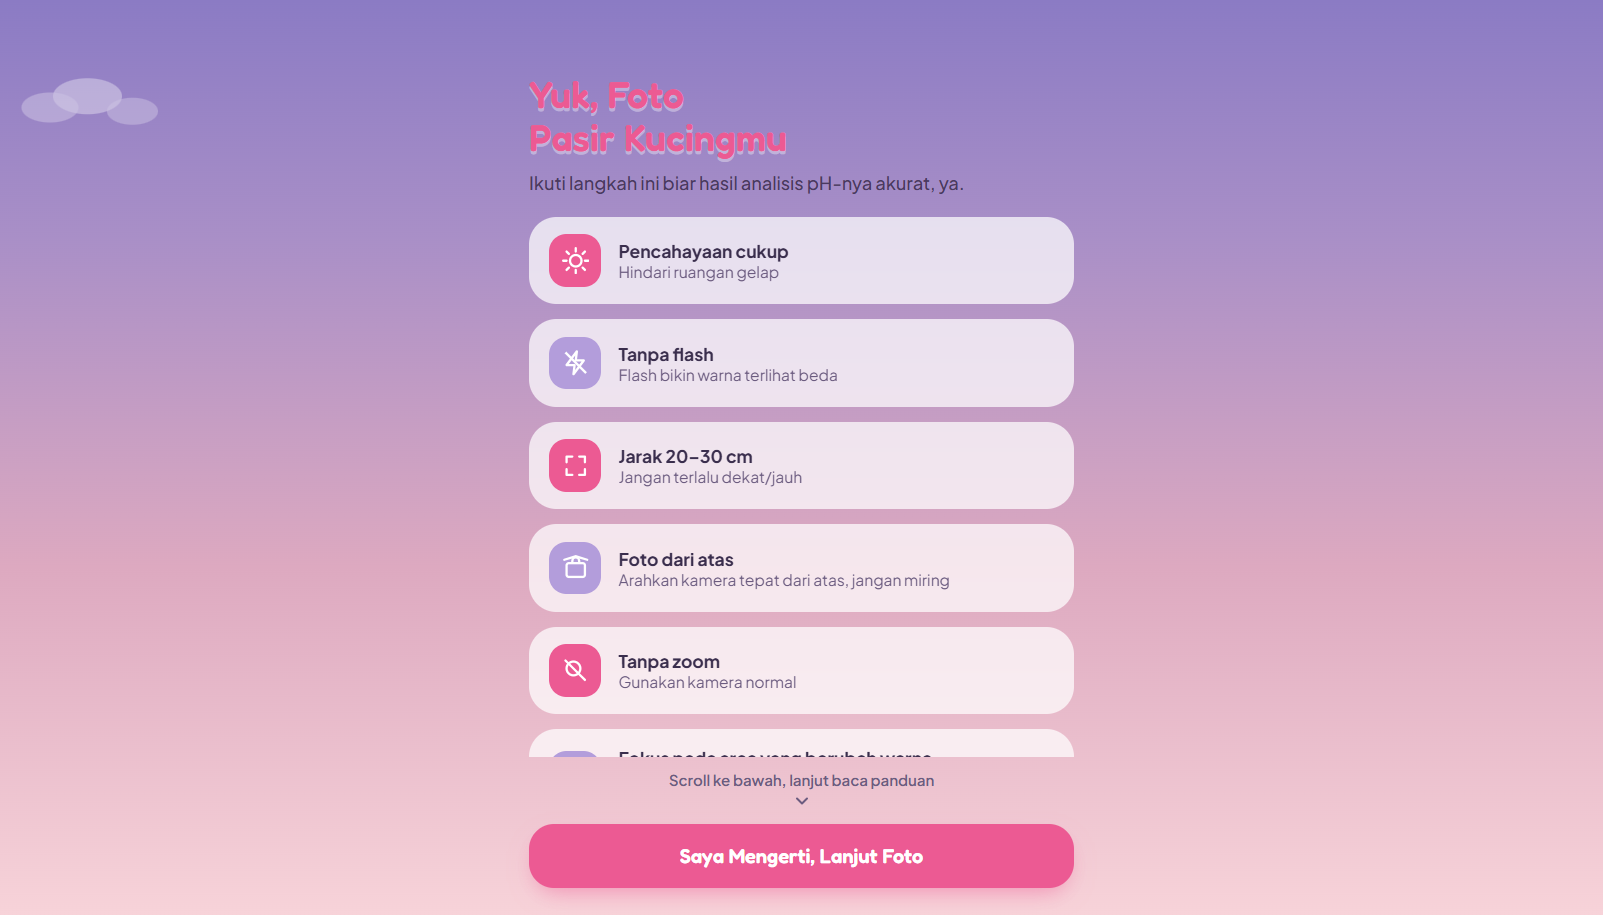
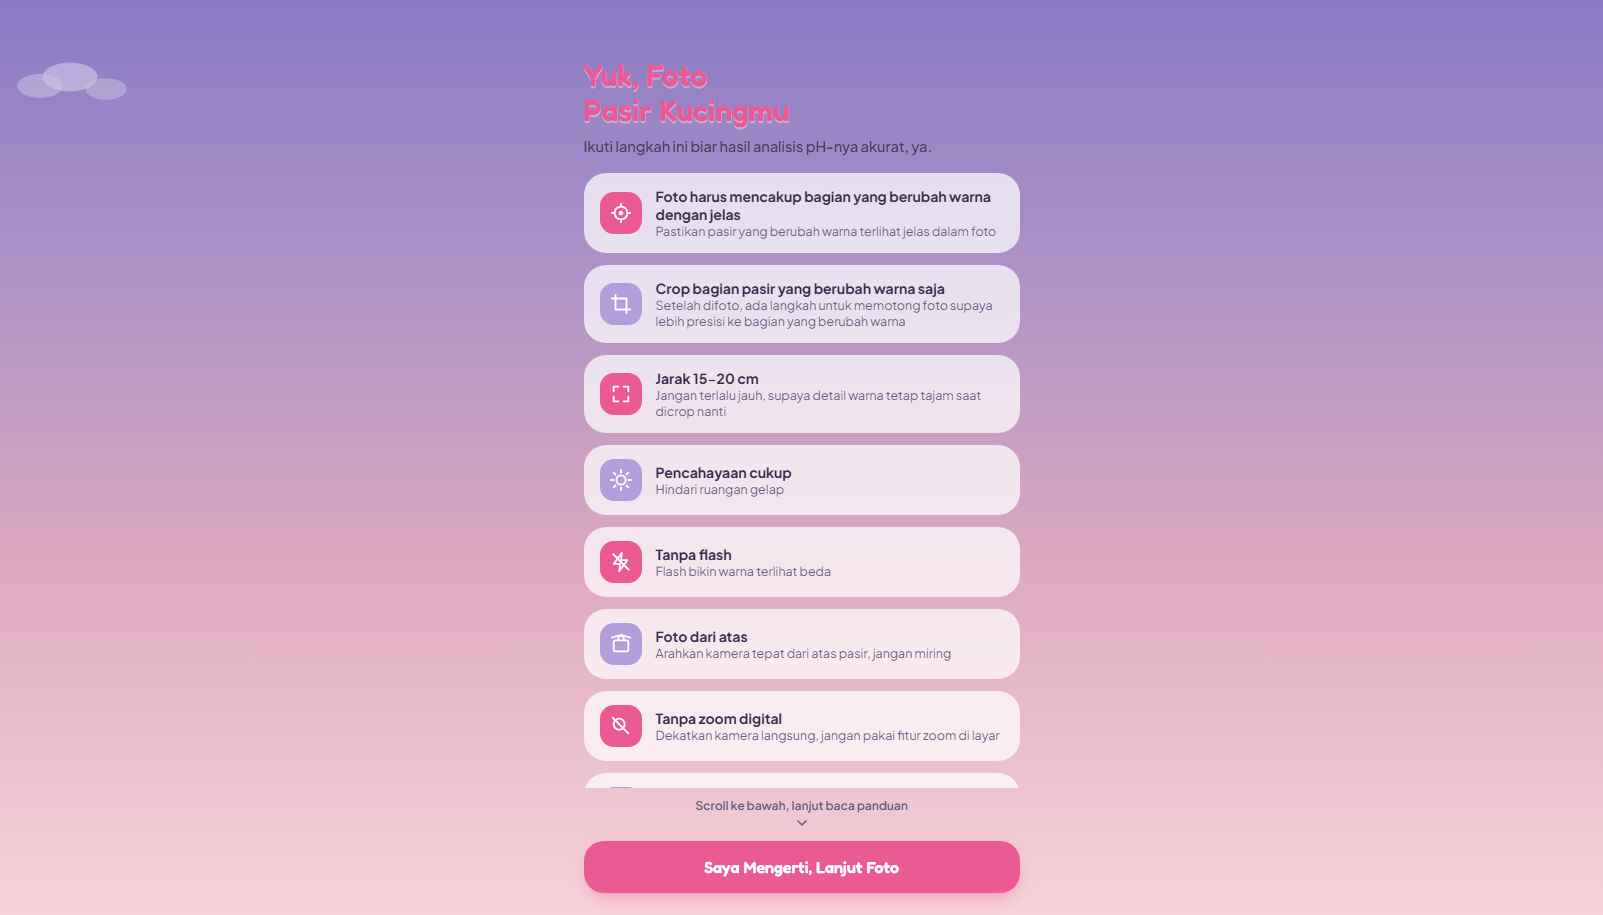
simplify A3 Autorent entry and refresh pH detector screenshot

Changed region(s): [[0.3119, 0.0612, 0.6862, 0.9792], [0.0, 0.0612, 0.0936, 0.153]]

diff --git a/data/projects.ts b/data/projects.ts
@@ -63,15 +63,5 @@ export const PROJECTS: Project[] = [
       "Web app sewa mobil harian dengan katalog armada, filter ketersediaan per tanggal, keranjang, akun pelanggan, dan pembayaran online sehingga pelanggan bisa booking sendiri tanpa antre.",
     link: "https://a3-autorent.vercel.app/",
     screenshot: "/images/projects/a3-autorent.png",
-    techDetail: {
-      flow: "Katalog armada dengan filter tanggal sewa → pilih mobil dan opsi lepas kunci atau dengan sopir → keranjang dan login/daftar akun → pembayaran online → konfirmasi booking.",
-      stack: [
-        "Next.js (Vercel)",
-        "Autentikasi & database booking",
-        "Payment gateway online",
-        "WhatsApp CS",
-      ],
-      scope: "Katalog 9 unit kendaraan (city car sampai van 14 kursi), halaman Syarat & Ketentuan, dan halaman kontak.",
-    },
   },
 ];
